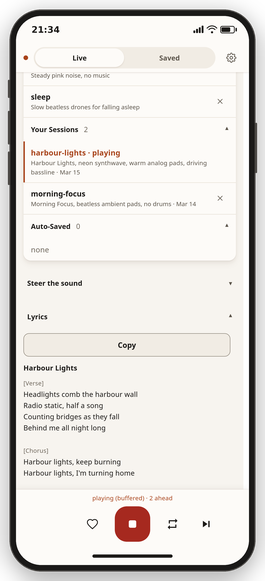
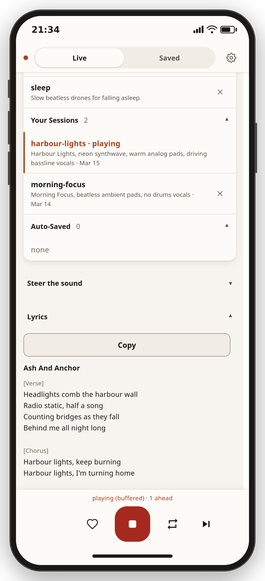
Songs in a sandbox have names that read like songs
The pictures in the README are shot on a machine with no helper model,
so every name in them is the deterministic one derived from the song's
own description - and the fake engine was echoing a task id, which put
"Task-3" on the front page. It now echoes a description that reads like
one, rotating so no two songs in a row share a name, which is also what
the buffered-playback test needs to tell two songs apart. The demo
stations sing in English, so the language pills in the picture show a
station's own languages rather than an empty row.

diff --git a/internal/remote/browser_test.go b/internal/remote/browser_test.go
@@ -951,6 +951,27 @@ func TestRealBrowser(t *testing.T) {
 
 // --- fake ACE-Step engine daemon ---
 
+// fakeCaptions read like the per-song descriptions a real planner
+// returns, and the player derives a display name from the first of
+// them, so a sandbox with no helper model still shows song-like names.
+var fakeCaptions = []string{
+	"Harbour lights", "Steel in the water", "Neon rain", "Ash and anchor",
+	"Long way down", "Paper boats", "Hold the line", "Wire and glass",
+}
+
+// fakeCaption picks one deterministically from a task id, so a shoot
+// and a test see stable names and neighbours differ.
+func fakeCaption(id string) string {
+	sum := 0
+	for _, r := range id {
+		sum = sum*31 + int(r)
+	}
+	if sum < 0 {
+		sum = -sum
+	}
+	return fakeCaptions[sum%len(fakeCaptions)]
+}
+
 // fakeEngine serves the slice of the ACE-Step API the app uses,
 // producing short sine tracks instantly. Recording it in the engine
 // daemon state file makes the app adopt it like a real daemon.
@@ -1037,10 +1058,14 @@ func (f *fakeEngine) handler() http.Handler {
 				lyrics = f.lyrics
 			}
 			// A real engine echoes the description it actually used,
-			// which differs per song; the player names a song from it
-			// when no helper wrote one. Keep them distinguishable.
+			// which differs per song and reads like a song rather than
+			// a tag list; the player names a song from it when no
+			// helper wrote one, and the pictures in the README are
+			// taken from a machine with no helper. Rotate so no two
+			// songs in a row share a name.
 			row := map[string]any{
-				"status": 1, "prompt": id + ", " + task.prompt, "seed_value": "7", "lyrics": lyrics,
+				"status": 1, "prompt": fakeCaption(id) + ", " + task.prompt,
+				"seed_value": "7", "lyrics": lyrics,
 			}
 			if task.planOnly {
 				// A planning job answers with audio codes and the

diff --git a/internal/remote/screenshots_test.go b/internal/remote/screenshots_test.go
@@ -328,6 +328,10 @@ func seedSessions(t *testing.T, sb *sandbox) {
 		s.Name = d.name
 		s.BasePrompt = d.prompt
 		s.Named = true
+		s.Vocal = true
+		// A station sings in the languages it was saved with; the demo
+		// ones say English, which is what the pills should show.
+		s.SungLanguages = []string{"English"}
 		s.Created = played.Add(-72 * time.Hour)
 		s.Updated = played
 		s.LastPlayed = played
